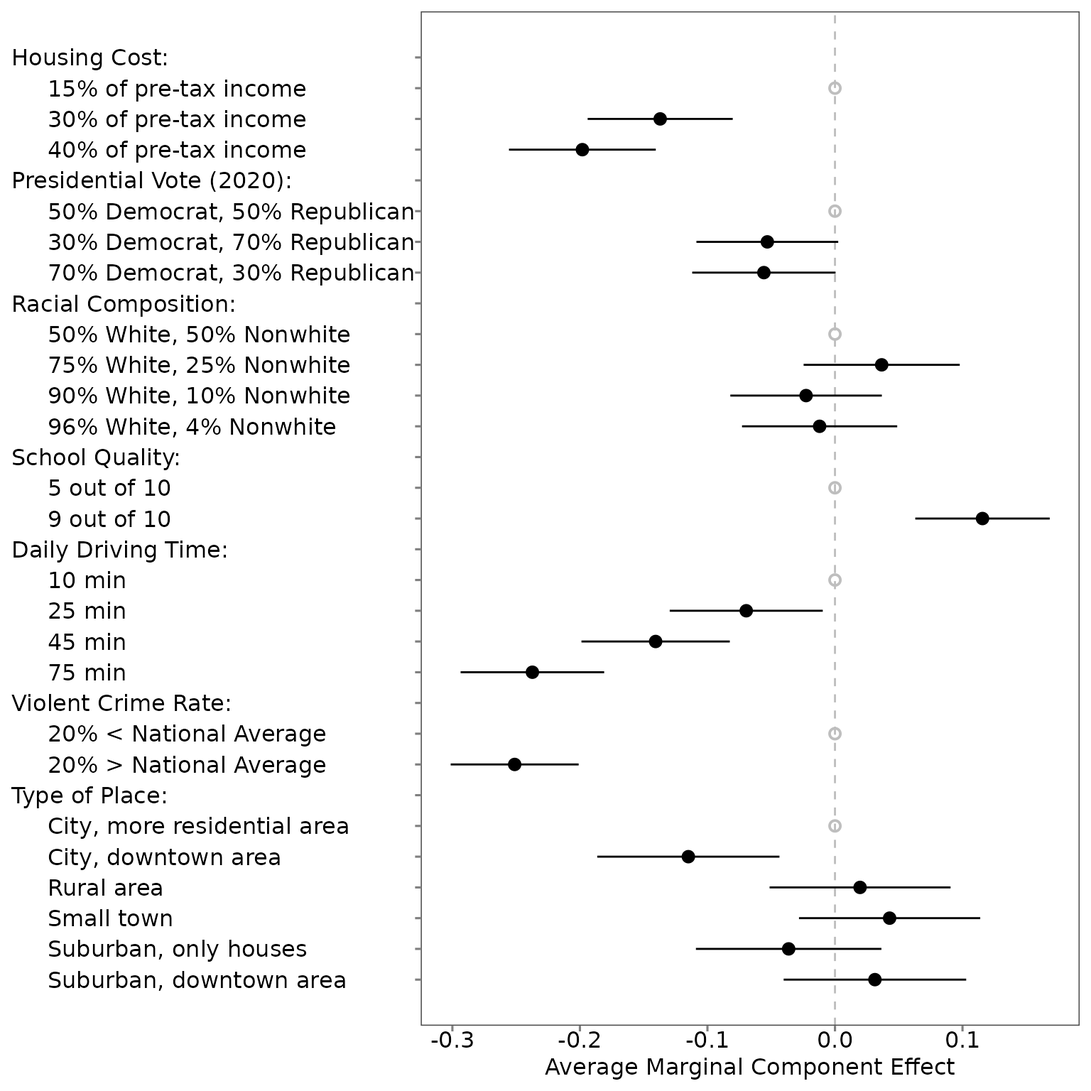
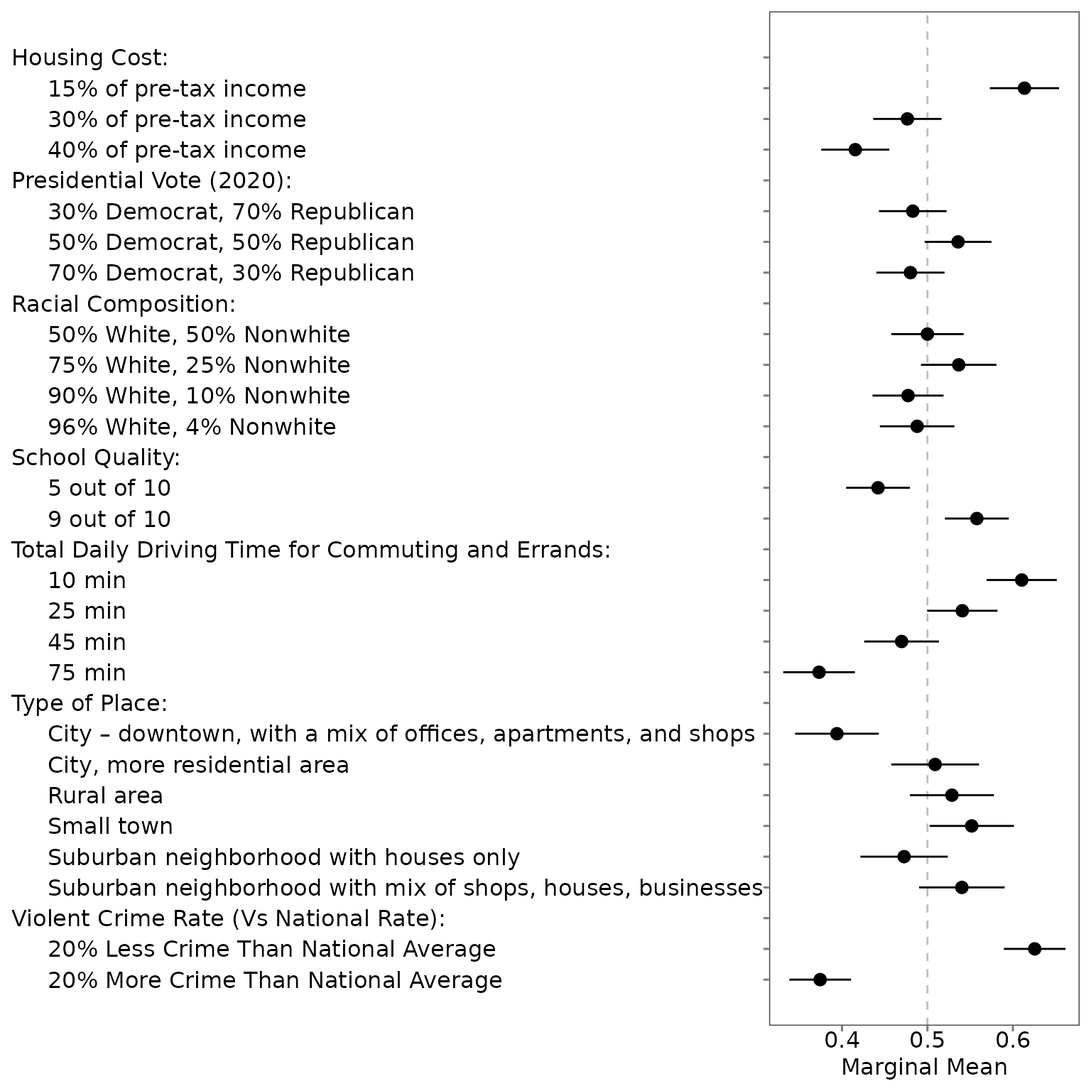
Deploying to gh-pages from @ yhoriuchi/projoint@9f4da8380d30a5c3a9d01b9fbd168603bf7d2a4b 🚀

diff --git a/articles/04-estimate.html b/articles/04-estimate.html
@@ -118,10 +118,19 @@ all those arguments below for clarity:</p>
 <code class="sourceCode R"><span><span class="va">mm0</span> <span class="op">&lt;-</span> <span class="fu"><a href="../reference/projoint.html">projoint</a></span><span class="op">(</span>.data <span class="op">=</span> <span class="va">out1</span>,</span>
 <span>                .qoi <span class="op">=</span> <span class="cn">NULL</span>,</span>
 <span>                .structure <span class="op">=</span> <span class="st">"profile_level"</span>,</span>
-<span>                .remove_ties <span class="op">=</span> <span class="cn">TRUE</span>,</span>
 <span>                .estimand <span class="op">=</span> <span class="st">"mm"</span>,</span>
 <span>                .se_method <span class="op">=</span> <span class="st">"analytical"</span>,</span>
-<span>                .irr <span class="op">=</span> <span class="cn">NULL</span><span class="op">)</span></span>
+<span>                .irr <span class="op">=</span> <span class="cn">NULL</span>, </span>
+<span>                .remove_ties <span class="op">=</span> <span class="cn">TRUE</span>,</span>
+<span>                .ignore_position <span class="op">=</span> <span class="cn">NULL</span>,</span>
+<span>                .n_sims <span class="op">=</span> <span class="cn">NULL</span>,</span>
+<span>                .n_boot <span class="op">=</span> <span class="cn">NULL</span>,</span>
+<span>                .weights_1 <span class="op">=</span> <span class="cn">NULL</span>,</span>
+<span>                .clusters_1 <span class="op">=</span> <span class="cn">NULL</span>,</span>
+<span>                .se_type_1 <span class="op">=</span> <span class="st">"classical"</span>,</span>
+<span>                .weights_2 <span class="op">=</span> <span class="cn">NULL</span>,</span>
+<span>                .clusters_2 <span class="op">=</span> <span class="cn">NULL</span>,</span>
+<span>                .se_type_2 <span class="op">=</span> <span class="st">"classical"</span><span class="op">)</span></span>
 <span></span>
 <span><span class="va">mm0</span><span class="op">@</span><span class="va">estimates</span></span></code></pre></div>
 <pre><code><span><span class="co">## <span style="color: #949494;"># A tibble: 48 × 7</span></span></span>
@@ -145,7 +154,9 @@ all those arguments below for clarity:</p>
 <p>However, it is also possible to specify the precise attributes, and
 attribute levels, of interest using the <code>set_qoi</code> function as
 below. The <code>set_qoi</code> function is the main way for users to
-specify more complex estimands in conjoint analysis.</p>
+specify more complex estimands in conjoint analysis. Al arguments for
+<code>qoi()</code> are expanded for clarify, but the default arguments
+in <code><a href="../reference/projoint.html">projoint()</a></code> are dropped for simplicity:</p>
 <div class="sourceCode" id="cb4"><pre class="downlit sourceCode r">
 <code class="sourceCode R"><span><span class="va">qoi_1</span> <span class="op">&lt;-</span> <span class="fu"><a href="../reference/set_qoi.html">set_qoi</a></span><span class="op">(</span></span>
 <span>  .structure <span class="op">=</span> <span class="st">"profile_level"</span>,</span>
@@ -154,15 +165,7 @@ specify more complex estimands in conjoint analysis.</p>
 <span>  .level <span class="op">=</span> <span class="st">"level1"</span><span class="op">)</span></span>
 <span></span>
 <span><span class="va">mm1</span> <span class="op">&lt;-</span> <span class="fu"><a href="../reference/projoint.html">projoint</a></span><span class="op">(</span>.data <span class="op">=</span> <span class="va">out1</span>,</span>
-<span>                .qoi <span class="op">=</span> <span class="va">qoi_1</span>,</span>
-<span>                .structure <span class="op">=</span> <span class="st">"profile_level"</span>,</span>
-<span>                .estimand <span class="op">=</span> <span class="st">"mm"</span>,</span>
-<span>                .se_method <span class="op">=</span> <span class="st">"analytical"</span>,</span>
-<span>                .irr <span class="op">=</span> <span class="cn">NULL</span>,</span>
-<span>                .remove_ties <span class="op">=</span> <span class="cn">TRUE</span>,</span>
-<span>                .ignore_position <span class="op">=</span> <span class="cn">NULL</span>,</span>
-<span>                .n_sims <span class="op">=</span> <span class="cn">NULL</span>,</span>
-<span>                .n_boot <span class="op">=</span> <span class="cn">NULL</span><span class="op">)</span></span>
+<span>                .qoi <span class="op">=</span> <span class="va">qoi_1</span><span class="op">)</span></span>
 <span></span>
 <span><span class="va">mm1</span><span class="op">@</span><span class="va">estimates</span></span></code></pre></div>
 <pre><code><span><span class="co">## <span style="color: #949494;"># A tibble: 2 × 7</span></span></span>
@@ -170,6 +173,28 @@ specify more complex estimands in conjoint analysis.</p>
 <span><span class="co">##   <span style="color: #949494; font-style: italic;">&lt;chr&gt;</span>             <span style="color: #949494; font-style: italic;">&lt;dbl&gt;</span>  <span style="color: #949494; font-style: italic;">&lt;dbl&gt;</span>    <span style="color: #949494; font-style: italic;">&lt;dbl&gt;</span>     <span style="color: #949494; font-style: italic;">&lt;dbl&gt;</span> <span style="color: #949494; font-style: italic;">&lt;chr&gt;</span>     <span style="color: #949494; font-style: italic;">&lt;chr&gt;</span> </span></span>
 <span><span class="co">## <span style="color: #BCBCBC;">1</span> mm_uncorrected    0.574 0.013<span style="text-decoration: underline;">4</span>    0.548     0.601 att1      level1</span></span>
 <span><span class="co">## <span style="color: #BCBCBC;">2</span> mm_corrected      0.614 0.020<span style="text-decoration: underline;">7</span>    0.573     0.654 att1      level1</span></span></code></pre>
+</div>
+<div class="section level4">
+<h4 id="mm-profile-level-specific-level-using-the-predicted-irr">MM (profile-level) – specific level, using the predicted IRR<a class="anchor" aria-label="anchor" href="#mm-profile-level-specific-level-using-the-predicted-irr"></a>
+</h4>
+<p>If your conjoint survey design does not include the recommended
+repeated task, you can use the specific value for <code>.irr</code>,
+which you can estimate using the <code><a href="../reference/predict_tau.html">predict_tau()</a></code> function or
+specify the value based on the prior knowledge. In the following, we use
+0.75, which is most likely IRR we find in our test data sets. The defaul
+arguments for both <code><a href="../reference/set_qoi.html">set_qoi()</a></code> and <code><a href="../reference/projoint.html">projoint()</a></code>
+are dropped hereafter.</p>
+<div class="sourceCode" id="cb6"><pre class="downlit sourceCode r">
+<code class="sourceCode R"><span><span class="va">mm1b</span> <span class="op">&lt;-</span> <span class="fu"><a href="../reference/projoint.html">projoint</a></span><span class="op">(</span>.data <span class="op">=</span> <span class="va">out1</span>,</span>
+<span>                 .qoi <span class="op">=</span> <span class="va">qoi_1</span>,</span>
+<span>                 .irr <span class="op">=</span> <span class="fl">0.75</span><span class="op">)</span></span>
+<span></span>
+<span><span class="va">mm1b</span><span class="op">@</span><span class="va">estimates</span></span></code></pre></div>
+<pre><code><span><span class="co">## <span style="color: #949494;"># A tibble: 2 × 7</span></span></span>
+<span><span class="co">##   estimand       estimate     se conf.low conf.high attribute level </span></span>
+<span><span class="co">##   <span style="color: #949494; font-style: italic;">&lt;chr&gt;</span>             <span style="color: #949494; font-style: italic;">&lt;dbl&gt;</span>  <span style="color: #949494; font-style: italic;">&lt;dbl&gt;</span>    <span style="color: #949494; font-style: italic;">&lt;dbl&gt;</span>     <span style="color: #949494; font-style: italic;">&lt;dbl&gt;</span> <span style="color: #949494; font-style: italic;">&lt;chr&gt;</span>     <span style="color: #949494; font-style: italic;">&lt;chr&gt;</span> </span></span>
+<span><span class="co">## <span style="color: #BCBCBC;">1</span> mm_uncorrected    0.574 0.013<span style="text-decoration: underline;">4</span>    0.548     0.601 att1      level1</span></span>
+<span><span class="co">## <span style="color: #BCBCBC;">2</span> mm_corrected      0.605 0.019<span style="text-decoration: underline;">0</span>    0.568     0.643 att1      level1</span></span></code></pre>
 </div>
 <div class="section level4">
 <h4 id="mm-choice-level-specific-level">MM (choice-level) – specific level<a class="anchor" aria-label="anchor" href="#mm-choice-level-specific-level"></a>
@@ -180,10 +205,9 @@ exponentially more choice-level estimands than there are profile-level
 estimands, so it is impractical to view all of them. Here we specify
 that we want to return the marginal mean of attribute 1, levels 1 and 3
 at the choice-level.</p>
-<div class="sourceCode" id="cb6"><pre class="downlit sourceCode r">
+<div class="sourceCode" id="cb8"><pre class="downlit sourceCode r">
 <code class="sourceCode R"><span><span class="va">qoi_2</span> <span class="op">&lt;-</span> <span class="fu"><a href="../reference/set_qoi.html">set_qoi</a></span><span class="op">(</span></span>
 <span>  .structure <span class="op">=</span> <span class="st">"choice_level"</span>,</span>
-<span>  .estimand <span class="op">=</span> <span class="st">"mm"</span>,</span>
 <span>  .attribute <span class="op">=</span> <span class="st">"att1"</span>, </span>
 <span>  .level <span class="op">=</span> <span class="fu"><a href="https://rdrr.io/r/base/c.html" class="external-link">c</a></span><span class="op">(</span><span class="st">"level1"</span>, <span class="st">"level3"</span><span class="op">)</span></span>
 <span><span class="op">)</span> </span>
@@ -191,13 +215,7 @@ at the choice-level.</p>
 <span><span class="va">mm2</span> <span class="op">&lt;-</span> <span class="fu"><a href="../reference/projoint.html">projoint</a></span><span class="op">(</span>.data <span class="op">=</span> <span class="va">out1</span>,</span>
 <span>                .qoi <span class="op">=</span> <span class="va">qoi_2</span>,</span>
 <span>                .structure <span class="op">=</span> <span class="st">"choice_level"</span>,</span>
-<span>                .remove_ties <span class="op">=</span> <span class="cn">TRUE</span>,</span>
-<span>                .estimand <span class="op">=</span> <span class="st">"mm"</span>,</span>
-<span>                .se_method <span class="op">=</span> <span class="st">"analytical"</span>,</span>
-<span>                .irr <span class="op">=</span> <span class="cn">NULL</span>,</span>
-<span>                .ignore_position <span class="op">=</span> <span class="cn">FALSE</span>,</span>
-<span>                .n_sims <span class="op">=</span> <span class="cn">NULL</span>,</span>
-<span>                .n_boot <span class="op">=</span> <span class="cn">NULL</span><span class="op">)</span></span>
+<span>                .ignore_position <span class="op">=</span> <span class="cn">FALSE</span><span class="op">)</span></span>
 <span></span>
 <span><span class="va">mm2</span><span class="op">@</span><span class="va">estimates</span></span></code></pre></div>
 <pre><code><span><span class="co">## <span style="color: #949494;"># A tibble: 2 × 7</span></span></span>
@@ -216,14 +234,9 @@ rather than the default <code>"mm"</code>.</p>
 <div class="section level4">
 <h4 id="amce-profile-level-all-levels">AMCE (profile-level) – all levels<a class="anchor" aria-label="anchor" href="#amce-profile-level-all-levels"></a>
 </h4>
-<div class="sourceCode" id="cb8"><pre class="downlit sourceCode r">
+<div class="sourceCode" id="cb10"><pre class="downlit sourceCode r">
 <code class="sourceCode R"><span><span class="va">amce0</span> <span class="op">&lt;-</span> <span class="fu"><a href="../reference/projoint.html">projoint</a></span><span class="op">(</span>.data <span class="op">=</span> <span class="va">out1</span>,</span>
-<span>                  .qoi <span class="op">=</span> <span class="cn">NULL</span>,</span>
-<span>                  .structure <span class="op">=</span> <span class="st">"profile_level"</span>,</span>
-<span>                  .remove_ties <span class="op">=</span> <span class="cn">TRUE</span>,</span>
-<span>                  .estimand <span class="op">=</span> <span class="st">"amce"</span>,</span>
-<span>                  .se_method <span class="op">=</span> <span class="st">"analytical"</span>,</span>
-<span>                  .irr <span class="op">=</span> <span class="cn">NULL</span><span class="op">)</span></span>
+<span>                  .estimand <span class="op">=</span> <span class="st">"amce"</span><span class="op">)</span></span>
 <span></span>
 <span><span class="va">amce0</span><span class="op">@</span><span class="va">estimates</span></span></code></pre></div>
 <pre><code><span><span class="co">## <span style="color: #949494;"># A tibble: 34 × 8</span></span></span>
@@ -244,7 +257,7 @@ rather than the default <code>"mm"</code>.</p>
 <div class="section level4">
 <h4 id="amce-profile-level-specific-level">AMCE (profile-level) – specific level<a class="anchor" aria-label="anchor" href="#amce-profile-level-specific-level"></a>
 </h4>
-<div class="sourceCode" id="cb10"><pre class="downlit sourceCode r">
+<div class="sourceCode" id="cb12"><pre class="downlit sourceCode r">
 <code class="sourceCode R"><span><span class="va">qoi_3</span> <span class="op">&lt;-</span> <span class="fu"><a href="../reference/set_qoi.html">set_qoi</a></span><span class="op">(</span></span>
 <span>  .structure <span class="op">=</span> <span class="st">"profile_level"</span>,</span>
 <span>  .estimand <span class="op">=</span> <span class="st">"amce"</span>,</span>
@@ -255,11 +268,7 @@ rather than the default <code>"mm"</code>.</p>
 <span></span>
 <span><span class="va">amce1</span> <span class="op">&lt;-</span> <span class="fu"><a href="../reference/projoint.html">projoint</a></span><span class="op">(</span>.data <span class="op">=</span> <span class="va">out1</span>,</span>
 <span>                  .qoi <span class="op">=</span> <span class="va">qoi_3</span>,</span>
-<span>                  .structure <span class="op">=</span> <span class="st">"profile_level"</span>,</span>
-<span>                  .remove_ties <span class="op">=</span> <span class="cn">TRUE</span>,</span>
-<span>                  .estimand <span class="op">=</span> <span class="st">"amce"</span>,</span>
-<span>                  .se_method <span class="op">=</span> <span class="st">"analytical"</span>,</span>
-<span>                  .irr <span class="op">=</span> <span class="cn">NULL</span><span class="op">)</span></span>
+<span>                  .estimand <span class="op">=</span> <span class="st">"amce"</span><span class="op">)</span></span>
 <span></span>
 <span><span class="va">amce1</span><span class="op">@</span><span class="va">estimates</span></span></code></pre></div>
 <pre><code><span><span class="co">## <span style="color: #949494;"># A tibble: 2 × 8</span></span></span>
@@ -269,9 +278,25 @@ rather than the default <code>"mm"</code>.</p>
 <span><span class="co">## <span style="color: #BCBCBC;">2</span> amce_corrected     -<span style="color: #BB0000;">0.198</span> 0.029<span style="text-decoration: underline;">4</span>   -<span style="color: #BB0000;">0.256</span>   -<span style="color: #BB0000;">0.140</span>  att1      level3 level1</span></span></code></pre>
 </div>
 <div class="section level4">
+<h4 id="amce-profile-level-specific-level-using-the-predicted-irr">AMCE (profile-level) – specific level, using the predicted IRR<a class="anchor" aria-label="anchor" href="#amce-profile-level-specific-level-using-the-predicted-irr"></a>
+</h4>
+<div class="sourceCode" id="cb14"><pre class="downlit sourceCode r">
+<code class="sourceCode R"><span><span class="va">amce1b</span> <span class="op">&lt;-</span> <span class="fu"><a href="../reference/projoint.html">projoint</a></span><span class="op">(</span>.data <span class="op">=</span> <span class="va">out1</span>,</span>
+<span>                 .qoi <span class="op">=</span> <span class="va">qoi_3</span>,</span>
+<span>                 .estimand <span class="op">=</span> <span class="st">"amce"</span>,</span>
+<span>                 .irr <span class="op">=</span> <span class="fl">0.90</span><span class="op">)</span></span>
+<span></span>
+<span><span class="va">amce1b</span><span class="op">@</span><span class="va">estimates</span></span></code></pre></div>
+<pre><code><span><span class="co">## <span style="color: #949494;"># A tibble: 2 × 8</span></span></span>
+<span><span class="co">##   estimand         estimate     se conf.low conf.high attribute level  baseline</span></span>
+<span><span class="co">##   <span style="color: #949494; font-style: italic;">&lt;chr&gt;</span>               <span style="color: #949494; font-style: italic;">&lt;dbl&gt;</span>  <span style="color: #949494; font-style: italic;">&lt;dbl&gt;</span>    <span style="color: #949494; font-style: italic;">&lt;dbl&gt;</span>     <span style="color: #949494; font-style: italic;">&lt;dbl&gt;</span> <span style="color: #949494; font-style: italic;">&lt;chr&gt;</span>     <span style="color: #949494; font-style: italic;">&lt;chr&gt;</span>  <span style="color: #949494; font-style: italic;">&lt;chr&gt;</span>   </span></span>
+<span><span class="co">## <span style="color: #BCBCBC;">1</span> amce_uncorrected   -<span style="color: #BB0000;">0.130</span> 0.018<span style="text-decoration: underline;">8</span>   -<span style="color: #BB0000;">0.167</span>   -<span style="color: #BB0000;">0.093</span><span style="color: #BB0000; text-decoration: underline;">1</span> att1      level3 level1  </span></span>
+<span><span class="co">## <span style="color: #BCBCBC;">2</span> amce_corrected     -<span style="color: #BB0000;">0.145</span> 0.021<span style="text-decoration: underline;">0</span>   -<span style="color: #BB0000;">0.186</span>   -<span style="color: #BB0000;">0.104</span>  att1      level3 level1</span></span></code></pre>
+</div>
+<div class="section level4">
 <h4 id="amce-choice-level-specific-level">AMCE (choice-level) – specific level<a class="anchor" aria-label="anchor" href="#amce-choice-level-specific-level"></a>
 </h4>
-<div class="sourceCode" id="cb12"><pre class="downlit sourceCode r">
+<div class="sourceCode" id="cb16"><pre class="downlit sourceCode r">
 <code class="sourceCode R"><span><span class="va">qoi_4</span> <span class="op">&lt;-</span> <span class="fu"><a href="../reference/set_qoi.html">set_qoi</a></span><span class="op">(</span></span>
 <span>  .structure <span class="op">=</span> <span class="st">"choice_level"</span>,</span>
 <span>  .estimand <span class="op">=</span> <span class="st">"amce"</span>,</span>
@@ -283,11 +308,8 @@ rather than the default <code>"mm"</code>.</p>
 <span><span class="va">amce2</span> <span class="op">&lt;-</span> <span class="fu"><a href="../reference/projoint.html">projoint</a></span><span class="op">(</span>.data <span class="op">=</span> <span class="va">out1</span>,</span>
 <span>                  .qoi <span class="op">=</span> <span class="va">qoi_4</span>,</span>
 <span>                  .structure <span class="op">=</span> <span class="st">"choice_level"</span>,</span>
-<span>                  .remove_ties <span class="op">=</span> <span class="cn">TRUE</span>,</span>
-<span>                  .estimand <span class="op">=</span> <span class="st">"amce"</span>,</span>
-<span>                  .se_method <span class="op">=</span> <span class="st">"analytical"</span>,</span>
-<span>                  .ignore_position <span class="op">=</span> <span class="cn">TRUE</span>,</span>
-<span>                  .irr <span class="op">=</span> <span class="cn">NULL</span><span class="op">)</span></span>
+<span>                  .estimand <span class="op">=</span> <span class="st">"amce"</span>, </span>
+<span>                  .ignore_position <span class="op">=</span> <span class="cn">TRUE</span><span class="op">)</span></span>
 <span></span>
 <span><span class="va">amce2</span><span class="op">@</span><span class="va">estimates</span></span></code></pre></div>
 <pre><code><span><span class="co">## <span style="color: #949494;"># A tibble: 2 × 8</span></span></span>

diff --git a/articles/02-wrangle.html b/articles/02-wrangle.html
@@ -97,7 +97,8 @@ the data and columns. In <code>projoint</code>, the
 <div class="section level4">
 <h4 id="with-the-flipped-repeated-tasks">With the flipped repeated tasks<a class="anchor" aria-label="anchor" href="#with-the-flipped-repeated-tasks"></a>
 </h4>
-<p>Let’s look at a simple example:</p>
+<p>Let’s look at a simple example. We expand all those arguments below
+for clarity:</p>
 <div class="sourceCode" id="cb2"><pre class="downlit sourceCode r">
 <code class="sourceCode R"><span><span class="va">outcomes</span> <span class="op">&lt;-</span> <span class="fu"><a href="https://rdrr.io/r/base/paste.html" class="external-link">paste0</a></span><span class="op">(</span><span class="st">"choice"</span>, <span class="fu"><a href="https://rdrr.io/r/base/seq.html" class="external-link">seq</a></span><span class="op">(</span>from <span class="op">=</span> <span class="fl">1</span>, to <span class="op">=</span> <span class="fl">8</span>, by <span class="op">=</span> <span class="fl">1</span><span class="op">)</span><span class="op">)</span></span>
 <span><span class="va">outcomes</span> <span class="op">&lt;-</span> <span class="fu"><a href="https://rdrr.io/r/base/c.html" class="external-link">c</a></span><span class="op">(</span><span class="va">outcomes</span>, <span class="st">"choice1_repeated_flipped"</span><span class="op">)</span></span>
@@ -120,7 +121,7 @@ indicates the possible options for an outcome; specifically, it is a
 vector of characters with two elements, which are the last characters of
 the names of the first and second profiles. For example, it should be
 c(“A”, “B”) if the profile names are “Candidate A” and “Candidate B”.
-This charactor vector can be anything, such as c(“1”, “2”), c(“a”, “b”),
+This character vector can be anything, such as c(“1”, “2”), c(“a”, “b”),
 etc. <em>If you have multiple tasks in your design, you should use the
 same profile names across all these tasks</em>. <code>.alphabet</code>
 defaults to “K” if the conjoint survey was conducted using either our
@@ -139,7 +140,7 @@ are in the reversed order.</p>
 <em>not</em> flipped – that is, in the repeated task, the original
 Profile 1 is still Profile 1, rather than flipping positions to Profile
 2. Here we specify that by changing <code>.flipped</code> to
-<code>FALSE</code>:</p>
+<code>FALSE</code>.</p>
 <div class="sourceCode" id="cb3"><pre class="downlit sourceCode r">
 <code class="sourceCode R"><span><span class="va">outcomes</span> <span class="op">&lt;-</span> <span class="fu"><a href="https://rdrr.io/r/base/paste.html" class="external-link">paste0</a></span><span class="op">(</span><span class="st">"choice"</span>, <span class="fu"><a href="https://rdrr.io/r/base/seq.html" class="external-link">seq</a></span><span class="op">(</span>from <span class="op">=</span> <span class="fl">1</span>, to <span class="op">=</span> <span class="fl">8</span>, by <span class="op">=</span> <span class="fl">1</span><span class="op">)</span><span class="op">)</span></span>
 <span><span class="va">outcomes</span> <span class="op">&lt;-</span> <span class="fu"><a href="https://rdrr.io/r/base/c.html" class="external-link">c</a></span><span class="op">(</span><span class="va">outcomes</span>, <span class="st">"choice1_repeated_notflipped"</span><span class="op">)</span></span>
@@ -195,16 +196,16 @@ and <a href="https://github.com/yhoriuchi/projoint/blob/master/data-raw/labels_a
 <p>The figure based on the original order and labels is in the
 alphabetical order:</p>
 <div class="sourceCode" id="cb6"><pre class="downlit sourceCode r">
-<code class="sourceCode R"><span><span class="va">amce</span> <span class="op">&lt;-</span> <span class="fu"><a href="../reference/projoint.html">projoint</a></span><span class="op">(</span><span class="va">out1</span>, .estimand <span class="op">=</span> <span class="st">"amce"</span><span class="op">)</span></span>
-<span><span class="fu"><a href="../reference/plot_projoint.html">plot_projoint</a></span><span class="op">(</span><span class="va">amce</span>, .estimand <span class="op">=</span> <span class="st">"amce"</span><span class="op">)</span></span></code></pre></div>
-<p><img src="02-wrangle_files/figure-html/unnamed-chunk-6-1.png" width="768"></p>
+<code class="sourceCode R"><span><span class="va">mm</span> <span class="op">&lt;-</span> <span class="fu"><a href="../reference/projoint.html">projoint</a></span><span class="op">(</span><span class="va">out1</span>, .estimand <span class="op">=</span> <span class="st">"mm"</span><span class="op">)</span></span>
+<span><span class="fu"><a href="../reference/plot_projoint.html">plot_projoint</a></span><span class="op">(</span><span class="va">mm</span>, .estimand <span class="op">=</span> <span class="st">"mm"</span><span class="op">)</span></span></code></pre></div>
+<p><img src="02-wrangle_files/figure-html/unnamed-chunk-7-1.png" width="768"></p>
 <p>The labels and order of all attribute-levels in the second figure is
 the same as Figure 2 in <a href="https://doi.org/10.1086/687569" class="external-link">Mummolo
 and Nall (2017)</a>.</p>
 <div class="sourceCode" id="cb7"><pre class="downlit sourceCode r">
-<code class="sourceCode R"><span><span class="va">amce</span> <span class="op">&lt;-</span> <span class="fu"><a href="../reference/projoint.html">projoint</a></span><span class="op">(</span><span class="va">out1_arranged</span>, .estimand <span class="op">=</span> <span class="st">"amce"</span><span class="op">)</span></span>
-<span><span class="fu"><a href="../reference/plot_projoint.html">plot_projoint</a></span><span class="op">(</span><span class="va">amce</span>, .estimand <span class="op">=</span> <span class="st">"amce"</span><span class="op">)</span></span></code></pre></div>
-<p><img src="02-wrangle_files/figure-html/unnamed-chunk-7-1.png" width="768"></p>
+<code class="sourceCode R"><span><span class="va">mm</span> <span class="op">&lt;-</span> <span class="fu"><a href="../reference/projoint.html">projoint</a></span><span class="op">(</span><span class="va">out1_arranged</span>, .estimand <span class="op">=</span> <span class="st">"mm"</span><span class="op">)</span></span>
+<span><span class="fu"><a href="../reference/plot_projoint.html">plot_projoint</a></span><span class="op">(</span><span class="va">mm</span>, .estimand <span class="op">=</span> <span class="st">"mm"</span><span class="op">)</span></span></code></pre></div>
+<p><img src="02-wrangle_files/figure-html/unnamed-chunk-8-1.png" width="768"></p>
 </div>
   </main><aside class="col-md-3"><nav id="toc"><h2>On this page</h2>
     </nav></aside>

diff --git a/reference/pj_estimate.html b/reference/pj_estimate.html
@@ -62,11 +62,11 @@
 <span>  <span class="va">.data</span>,</span>
 <span>  <span class="va">.attribute</span>,</span>
 <span>  <span class="va">.level</span>,</span>
-<span>  .structure <span class="op">=</span> <span class="st">"choice_level"</span>,</span>
+<span>  .baseline <span class="op">=</span> <span class="cn">NULL</span>,</span>
+<span>  .structure <span class="op">=</span> <span class="st">"profile_level"</span>,</span>
 <span>  .estimand <span class="op">=</span> <span class="st">"mm"</span>,</span>
 <span>  .se_method <span class="op">=</span> <span class="st">"analytical"</span>,</span>
 <span>  .irr <span class="op">=</span> <span class="cn">NULL</span>,</span>
-<span>  .baseline <span class="op">=</span> <span class="cn">NULL</span>,</span>
 <span>  .remove_ties <span class="op">=</span> <span class="cn">TRUE</span>,</span>
 <span>  .ignore_position <span class="op">=</span> <span class="cn">NULL</span>,</span>
 <span>  .n_sims <span class="op">=</span> <span class="cn">NULL</span>,</span>
@@ -94,8 +94,12 @@
 <dd><p>A character vector identifying the levels of interest. Its length should be 1 for profile-level analysis and 2 for choice-level analysis</p></dd>
 
 
+<dt>.baseline</dt>
+<dd><p>A character vector identifying the baseline level. Its length should be 1 for profile-level analysis and 2 for choice-level analysis</p></dd>
+
+
 <dt>.structure</dt>
-<dd><p>A character identifying a data structure: "choice_level" (default) or "profile_level". Note: the right element of .level is the outcome of choice if .structure == "choice_level"</p></dd>
+<dd><p>A character identifying a data structure: "choice_level" or "profile_level" (default). Note: the right element of .level is the outcome of choice if .structure == "choice_level"</p></dd>
 
 
 <dt>.estimand</dt>
@@ -108,10 +112,6 @@
 
 <dt>.irr</dt>
 <dd><p>NULL (default) if IRR is calculate using the repeated task. Otherwise, a numerical value</p></dd>
-
-
-<dt>.baseline</dt>
-<dd><p>A character vector identifying the baseline level. Its length should be 1 for profile-level analysis and 2 for choice-level analysis</p></dd>
 
 
 <dt>.remove_ties</dt>

diff --git a/reference/set_qoi.html b/reference/set_qoi.html
@@ -59,7 +59,7 @@
     <div class="section level2">
     <h2 id="ref-usage">Usage<a class="anchor" aria-label="anchor" href="#ref-usage"></a></h2>
     <div class="sourceCode"><pre class="sourceCode r"><code><span><span class="fu">set_qoi</span><span class="op">(</span></span>
-<span>  .structure <span class="op">=</span> <span class="st">"choice_level"</span>,</span>
+<span>  .structure <span class="op">=</span> <span class="st">"profile_level"</span>,</span>
 <span>  .estimand <span class="op">=</span> <span class="st">"mm"</span>,</span>
 <span>  <span class="va">.attribute</span>,</span>
 <span>  <span class="va">.level</span>,</span>

diff --git a/reference/projoint.html b/reference/projoint.html
@@ -92,7 +92,7 @@ It  accepts a `projoint_data` object, and optionally a `projoint_qoi` object for
 
 
 <dt>.structure</dt>
-<dd><p>Either "profile_level" or "choice_level"</p></dd>
+<dd><p>Either "profile_level" (default) or "choice_level"</p></dd>
 
 
 <dt>.estimand</dt>
